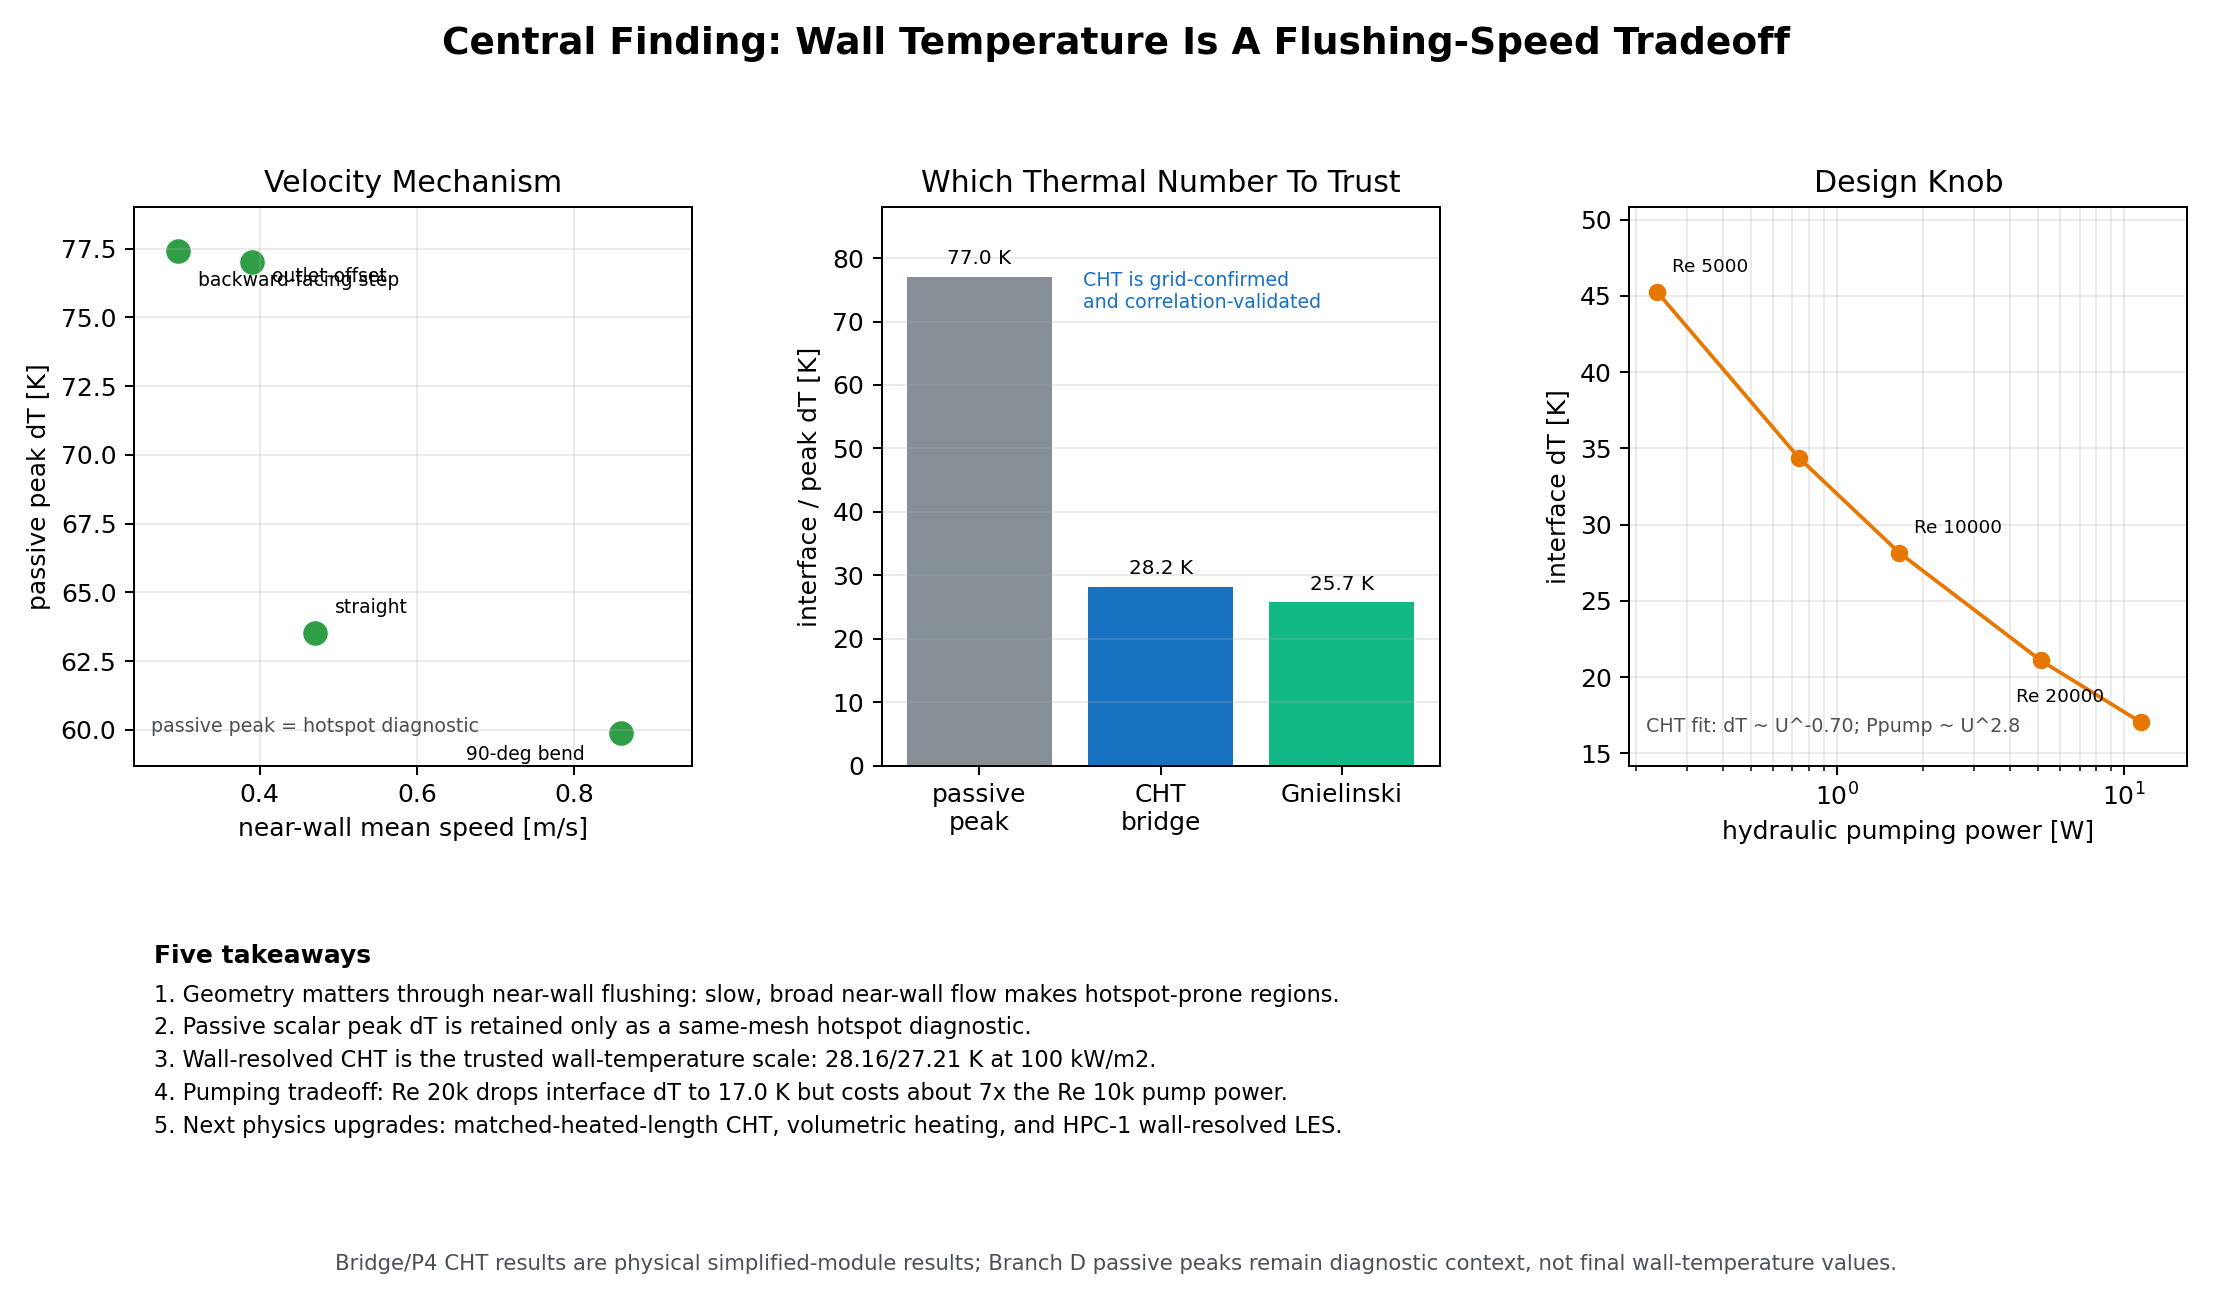
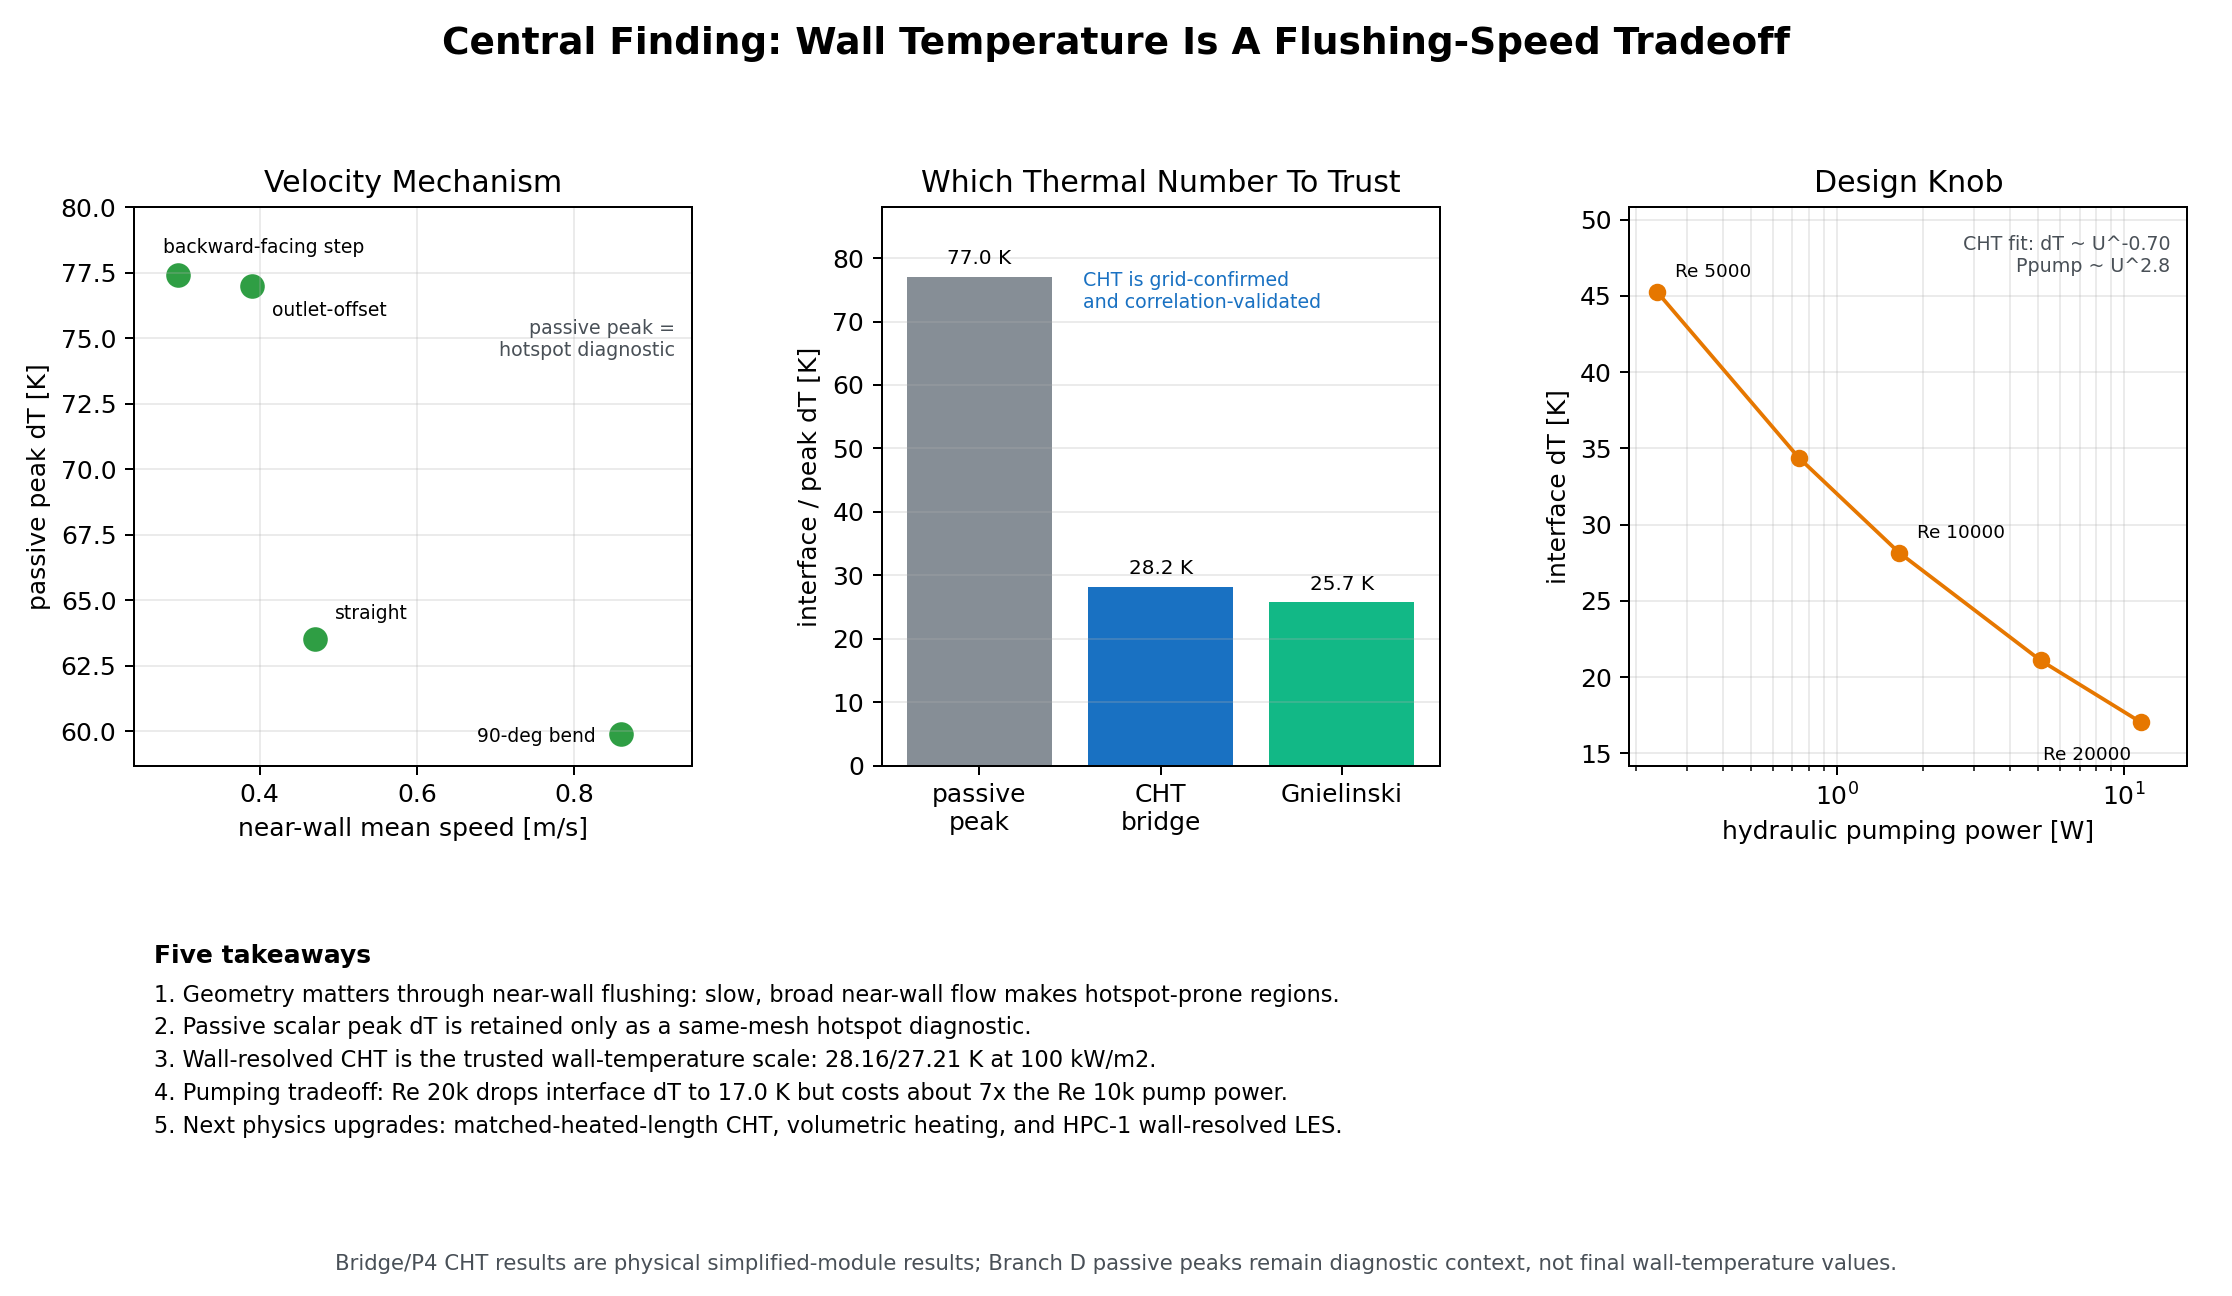
Clean up overlapping labels in summary figures

diff --git a/scripts/build_central_finding_onepager_ao.py b/scripts/build_central_finding_onepager_ao.py
@@ -46,21 +46,21 @@ def plot() -> tuple[Path, Path]:
     ax1.scatter(speeds, peaks, s=78, color="#2f9e44")
     for x, y, label in zip(speeds, peaks, labels):
         if label == "90-deg bend":
-            offset = (-62, -11)
+            offset, ha = (-10, -3), "right"
         elif label == "backward-facing step":
-            offset = (8, -14)
+            offset, ha = (-6, 9), "left"
         elif label == "outlet-offset":
-            offset = (8, -8)
+            offset, ha = (8, -12), "left"
         else:
-            offset = (8, 8)
-        ax1.annotate(label, (x, y), xytext=offset, textcoords="offset points", fontsize=7.5)
+            offset, ha = (8, 8), "left"
+        ax1.annotate(label, (x, y), xytext=offset, textcoords="offset points", fontsize=7.5, ha=ha)
     ax1.set_xlabel("near-wall mean speed [m/s]")
     ax1.set_ylabel("passive peak dT [K]")
     ax1.set_title("Velocity Mechanism")
     ax1.set_xlim(0.24, 0.95)
-    ax1.set_ylim(58.7, 79.0)
+    ax1.set_ylim(58.7, 80.0)
     ax1.grid(True, alpha=0.25)
-    ax1.text(0.03, 0.06, "passive peak = hotspot diagnostic", transform=ax1.transAxes, fontsize=7.6, color="#495057")
+    ax1.text(0.97, 0.80, "passive peak =\nhotspot diagnostic", transform=ax1.transAxes, fontsize=7.6, color="#495057", ha="right", va="top")
 
     ax2 = fig.add_subplot(gs[0, 1])
     names = ["passive\npeak", "CHT\nbridge", "Gnielinski"]
@@ -91,11 +91,8 @@ def plot() -> tuple[Path, Path]:
     ax3.plot(pump, interface, marker="o", color="#e67700")
     for x, y, re in zip(pump, interface, re_values):
         if re in {"5000", "10000", "20000"}:
-            if re == "20000":
-                offset = (-50, 8)
-            else:
-                offset = (6, 8)
-            ax3.annotate(f"Re {re}", (x, y), xytext=offset, textcoords="offset points", fontsize=7.4)
+            offset, ha = ((-4, -15), "right") if re == "20000" else ((7, 6), "left")
+            ax3.annotate(f"Re {re}", (x, y), xytext=offset, textcoords="offset points", fontsize=7.4, ha=ha)
     ax3.set_xscale("log")
     ax3.set_xlabel("hydraulic pumping power [W]")
     ax3.set_ylabel("interface dT [K]")
@@ -103,7 +100,7 @@ def plot() -> tuple[Path, Path]:
     ax3.set_xlim(min(pump) * 0.8, max(pump) * 1.45)
     ax3.set_ylim(14.2, 50.8)
     ax3.grid(True, which="both", alpha=0.25)
-    ax3.text(0.03, 0.06, exponent_note, transform=ax3.transAxes, fontsize=7.6, color="#495057")
+    ax3.text(0.97, 0.95, exponent_note.replace("; ", "\n"), transform=ax3.transAxes, fontsize=7.6, color="#495057", ha="right", va="top")
 
     ax4 = fig.add_subplot(gs[1, :])
     ax4.axis("off")
